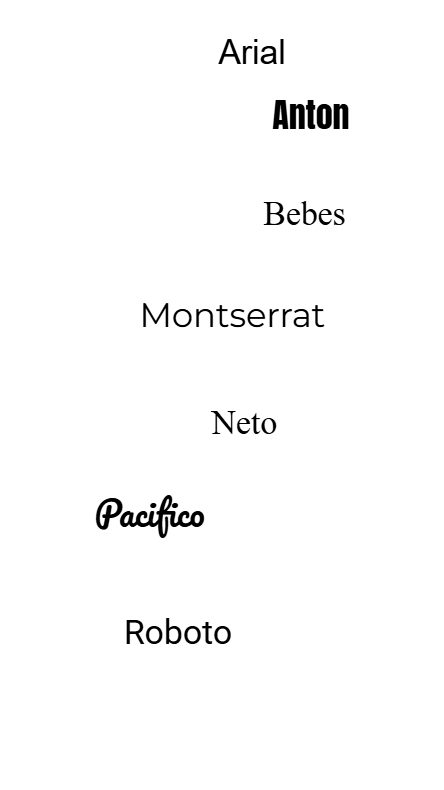
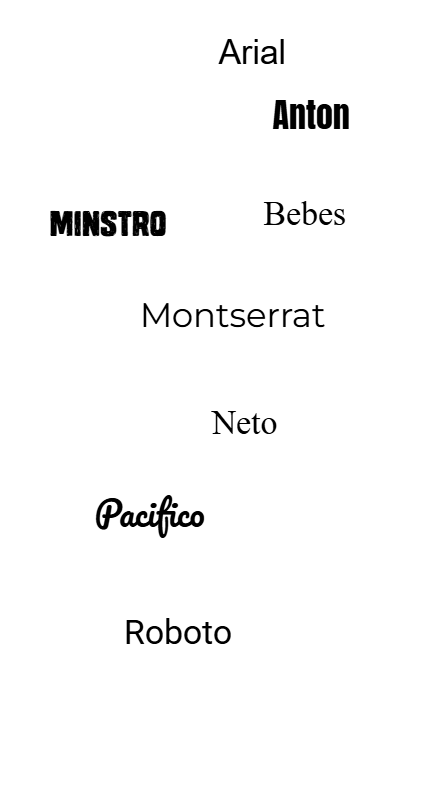
font not loaded for other

diff --git a/AnimationProject/wwwroot/js/action.js b/AnimationProject/wwwroot/js/action.js
@@ -518,8 +518,28 @@ function RedirectToVerticalPageDirect() {
 }
 // Restore the canvas from your JSON data
 // Modified loadCanvasFromJson with auto-fit (finishEditing) integration
+/* Font initialization helper */
+function ensureFontsInitialized() {
+    if (!window.__allFontsReady) {
+        const families = [
+            'Arial', 'Anton', 'Bebas Neue', 'monstro', 'Montserrat', 'neto', 'Pacifico', 'Roboto'
+        ];
+        window.__fontFamilyPromises = families.map(fam => {
+            console.log(`vertical Preloading font family: ${fam}`);
+            return document.fonts.load(`1em ${fam}`);
+        });
+        window.__allFontsReady = Promise.all(window.__fontFamilyPromises)
+            .then(() => console.log('All font families loaded'))
+            .catch(err => console.warn('Error loading fonts:', err));
+    }
+    return window.__allFontsReady;
+}
 
-function loadCanvasFromJson(jsonData, condition = 'Common') {
+async function loadCanvasFromJson(jsonData, condition = 'Common') {
+    // Ensure fonts are ready (on first draw or SPA redraws)
+    // Wait for all font families to finish loading (first time or SPA)
+    //await window.__allFontsReady;
+    await ensureFontsInitialized();
     // Clear existing canvas
     ctx.clearRect(0, 0, canvas.width, canvas.height);
     currentCondition = condition;
@@ -633,10 +653,7 @@ function loadCanvasFromJson(jsonData, condition = 'Common') {
 
     // Preload fonts and draw
     const fontPromises = textObjects.map(o =>
-        setTimeout(() => {
-            document.fonts.load(`${o.fontSize}px ${o.fontFamily}`)
-        },1000)
-        
+        document.fonts.load(`${o.fontSize}px ${o.fontFamily}`)
     );
 
 
@@ -647,7 +664,9 @@ function loadCanvasFromJson(jsonData, condition = 'Common') {
                 autoFitText(obj, padding);
             }
         });
+        console.log('drawCanvas calling after Promise');
         drawCanvas(condition);
+       // resizeCanvas();
     });
 }
 
